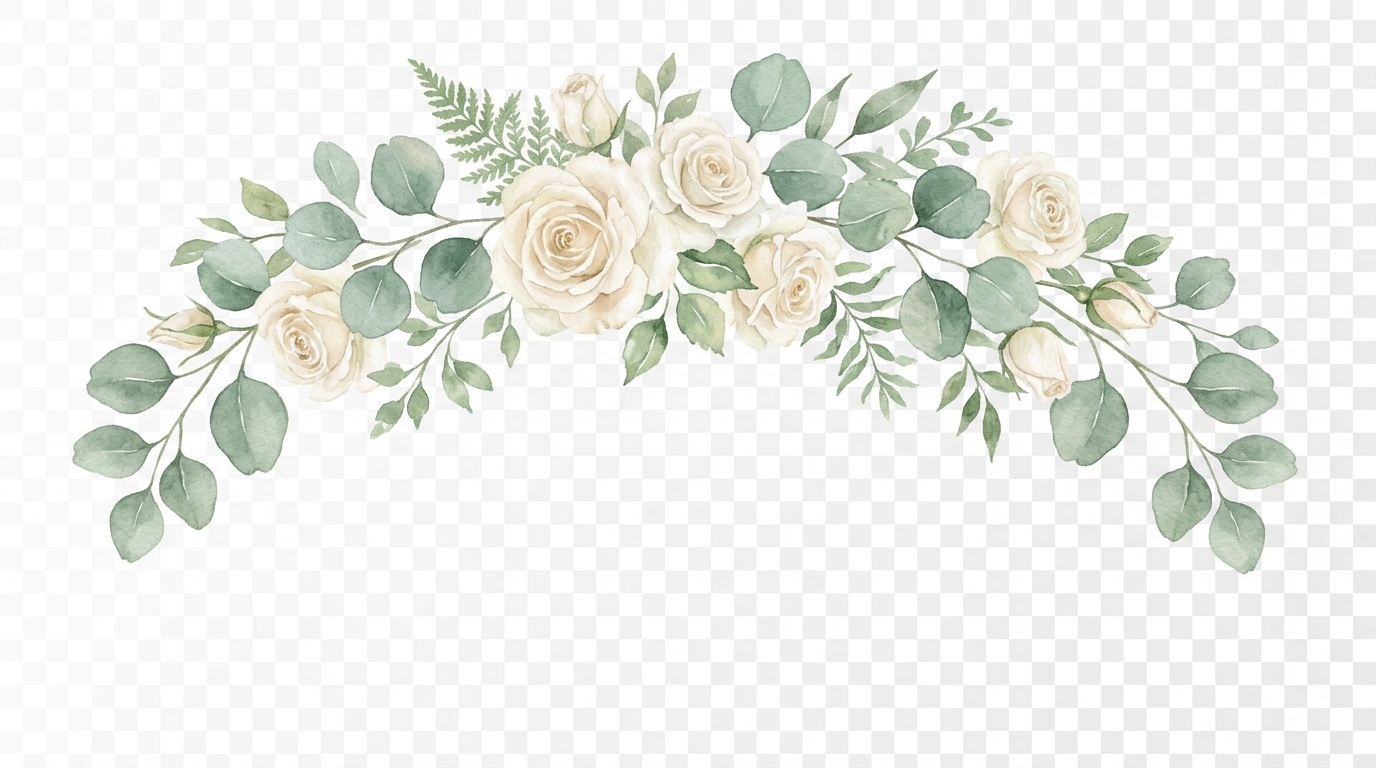
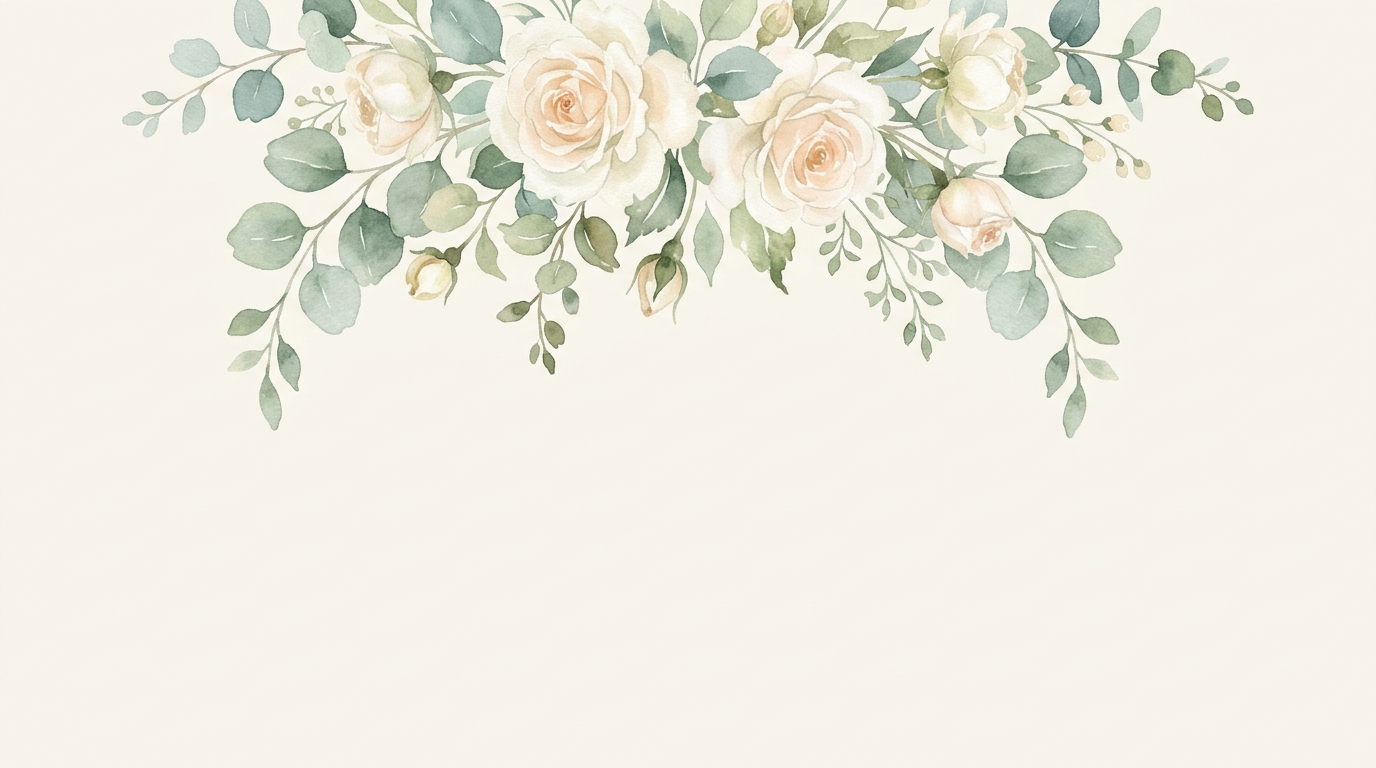
fix: replace checkerboard header with solid ivory bg, fix cover screen click blocking

Changed region(s): [[0.0312, 0.0, 0.9688, 0.75]]

diff --git a/css/style.css b/css/style.css
@@ -206,7 +206,14 @@ main {
   top: 0;
   left: 0;
   width: 100%;
-  opacity: 0.6;
+  opacity: 0.8;
+  pointer-events: none;
+  z-index: 0;
+}
+
+#cover-screen > *:not(.cover-floral) {
+  position: relative;
+  z-index: 1;
 }
 
 .cover-guest-label {